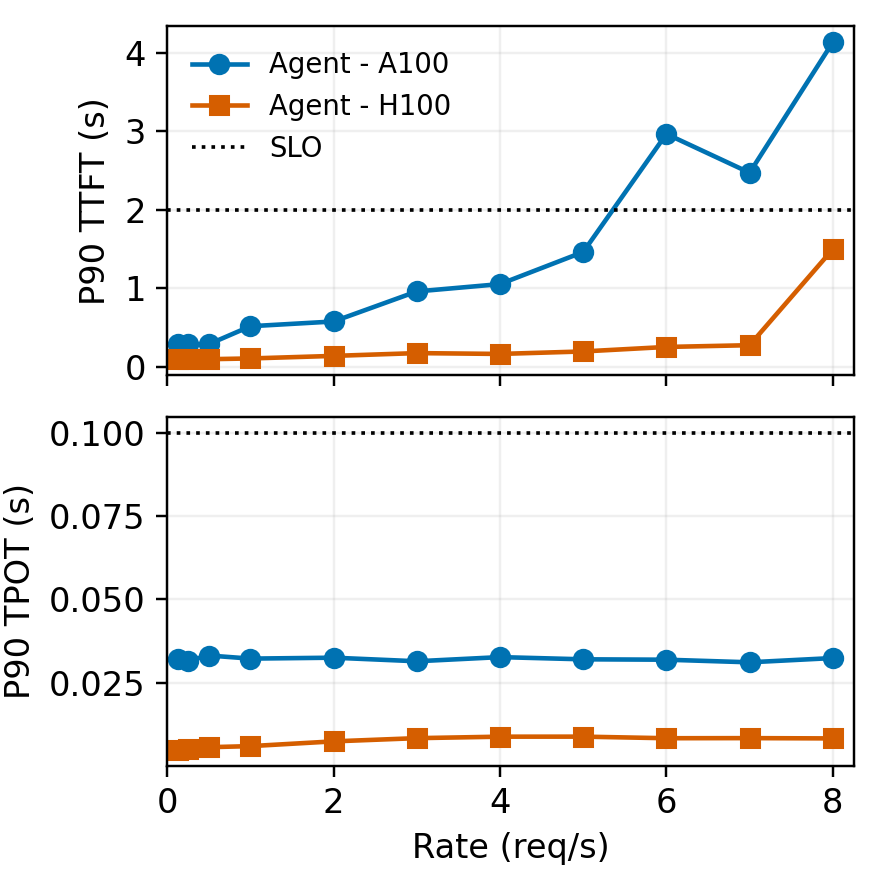
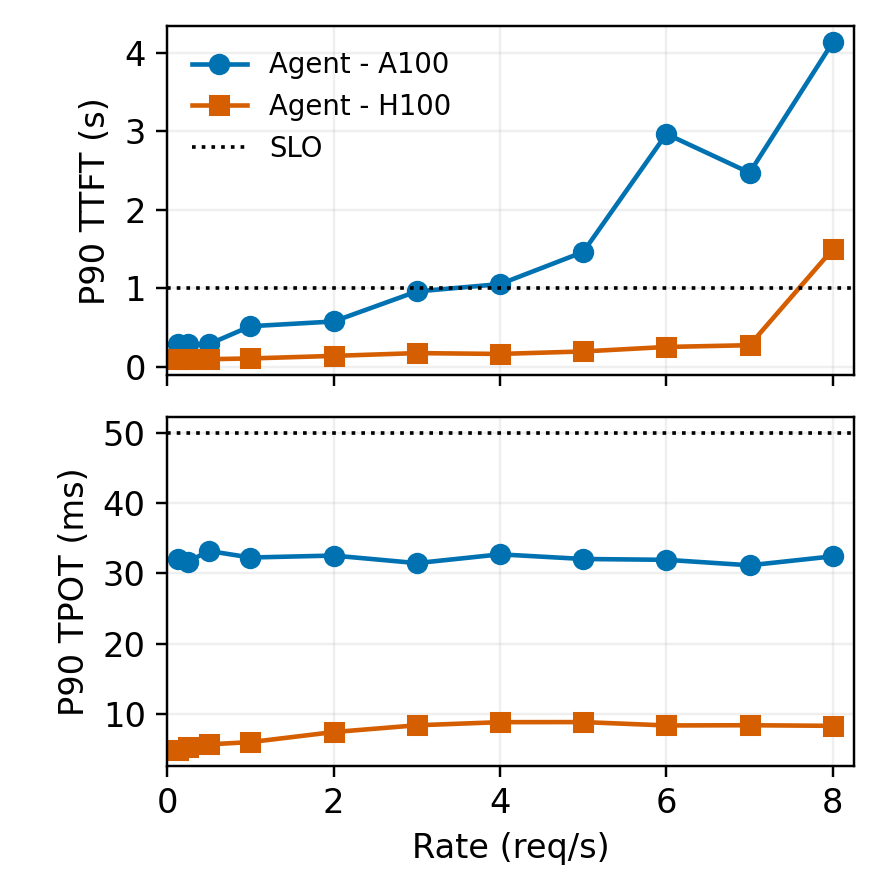
Tighten agent latency SLO references

diff --git a/agent-migrate/queue-haul/plot_agentic_rps_sweep.py b/agent-migrate/queue-haul/plot_agentic_rps_sweep.py
@@ -14,9 +14,10 @@ plot_style.apply()
 MODEL = "openai/gpt-oss-20b"
 SCHEMA = "queue-haul-agentic-rps-sweep-v3"
 METRICS = (
-    ("p90_ttft_s", "P90 TTFT (s)"),
-    ("p90_tpot_s", "P90 TPOT (s)"),
+    ("p90_ttft_s", "P90 TTFT (s)", 1),
+    ("p90_tpot_s", "P90 TPOT (ms)", 1000),
 )
+SLOS = {"p90_ttft_s": 1.0, "p90_tpot_s": .05}
 
 
 def plot_summary(summary: dict, output: Path, h100: dict | None = None) -> None:
@@ -33,12 +34,12 @@ def plot_summary(summary: dict, output: Path, h100: dict | None = None) -> None:
             raise ValueError("A100 and H100 SLOs do not match")
         curves["h100"] = h100_result["curve"]
     figure, axes = plt.subplots(2, 1, figsize=(4, 4), sharex=True)
-    for axis, (field, ylabel) in zip(axes, METRICS):
+    for axis, (field, ylabel, scale) in zip(axes, METRICS):
         for hardware, rows in curves.items():
             rows = sorted(rows, key=lambda row: row["offered_rps"])
             axis.plot(
                 [row["offered_rps"] for row in rows],
-                [row[f"{field}_median"] for row in rows],
+                [row[f"{field}_median"] * scale for row in rows],
                 label=(plot_style.AGENTIC_WORKLOAD_NAME if h100 is None else
                        f"Agent - {plot_style.AGENTIC_HARDWARE_NAMES[hardware]}"),
                 color=plot_style.AGENTIC_HARDWARE_COLORS[hardware],
@@ -46,7 +47,7 @@ def plot_summary(summary: dict, output: Path, h100: dict | None = None) -> None:
                 linewidth=1.5,
             )
         axis.axhline(
-            result["slo"][field], color="black", linestyle=":",
+            SLOS[field] * scale, color="black", linestyle=":",
             linewidth=1.2, label="SLO",
         )
         axis.set_ylabel(ylabel, fontsize=plot_style.COLUMN_FONT_SIZE)

diff --git a/agent-migrate/queue-haul/tests/test_plot_agentic_rps_sweep.py b/agent-migrate/queue-haul/tests/test_plot_agentic_rps_sweep.py
@@ -43,7 +43,7 @@ def test_plot_selects_sorted_gpt_oss_curve_and_fixed_slos(tmp_path, monkeypatch)
     assert list(axes[0].lines[0].get_xdata()) == [1, 2]
     assert list(axes[0].lines[0].get_ydata()) == [1, 2]
     assert axes[0].lines[0].get_label() == "OpenHands Agentic"
-    assert set(axes[0].lines[1].get_ydata()) == {2}
+    assert set(axes[0].lines[1].get_ydata()) == {1}
     assert axes[0].lines[1].get_color() == "black"
     assert axes[0].lines[1].get_linestyle() == ":"
     plt.close("all")
@@ -82,7 +82,9 @@ def test_plot_compares_matching_hardware_with_one_shared_slo(tmp_path,
 
     assert [line.get_label() for line in lines] == [
         "Agent - A100", "Agent - H100", "SLO"]
-    assert [list(line.get_ydata()) for line in lines] == [[3], [1], [2, 2]]
+    assert [list(line.get_ydata()) for line in lines] == [[3], [1], [1, 1]]
+    assert [list(line.get_ydata()) for line in plt.gcf().axes[1].lines] \
+        == [[30], [50], [50, 50]]
     plt.close("all")
 
 

diff --git a/agent-migrate/queue-haul/AGENTIC_RPS_SWEEP.md b/agent-migrate/queue-haul/AGENTIC_RPS_SWEEP.md
@@ -104,7 +104,7 @@ uv run python plot_agentic_rps_sweep.py \
 
 Pass `--h100-summary outputs/agentic-rps-sweep-h100-vllm019-20260817/summary.json`
 to compare the workload-matched vLLM 0.19 H100 curve against the same fixed
-SLOs.
+paper-reference SLOs: 1.0 s TTFT and 50 ms TPOT.
 
 The plot command writes a compact, vertically stacked PDF and PNG for
 GPT-OSS-20B. Both panels use raw seconds and an increasing linear RPS axis,
